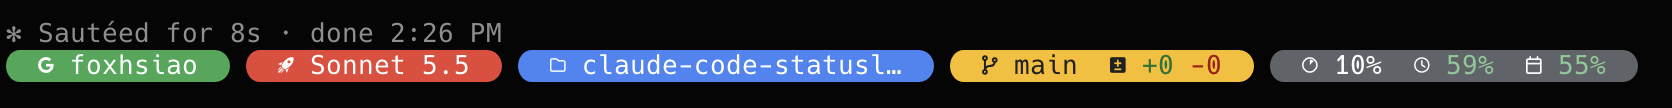
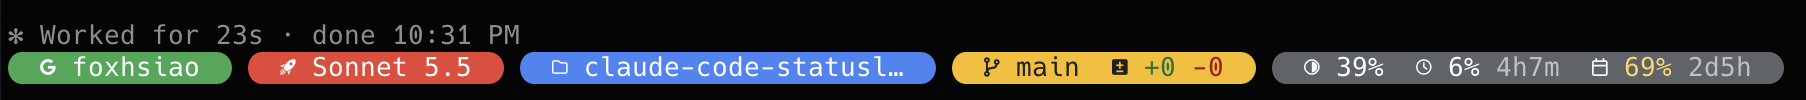
docs: use a current screenshot and describe what it shows
Claude-Session: https://claude.ai/code/session_01P7Gb8GE3uSyPrzz5SXovmY

Changed region(s): [[0.0, 0.21, 0.9952, 0.84]]

diff --git a/README.md b/README.md
@@ -11,7 +11,9 @@ Claude Code 的 powerline 膠囊風格狀態列（Google 四色）。
 
 ![statusline screenshot](docs/screenshot.png)
 
-上圖是寬度足夠時的畫面，五個膠囊由左到右依序是帳號、模型、資料夾、git（分支與增刪行數）、用量（context、5h、7d）。終端機變窄或開啟側欄時會自動隱藏部分膠囊，見[窄終端機與長名稱](#窄終端機與長名稱)。
+上圖是乾淨、與遠端同步的 `main` 分支、寬度足夠時的畫面，五個膠囊由左到右依序是：帳號、模型、資料夾（名稱過長時以 `…` 截斷）、git（分支與增刪行數）、用量（context、5h、7d；5h 與 7d 後面是距離重設的倒數）。
+
+分支有未推送的 commit、是沒推送過的新分支，或有 PR、部署設定時，黃色 git 膠囊後面會多出內容，見下方「git 膠囊：↑↓、PR、CI、部署」一節。終端機變窄或開啟側欄時會自動隱藏部分膠囊，見[窄終端機與長名稱](#窄終端機與長名稱)。
 
 ## 需求
 
